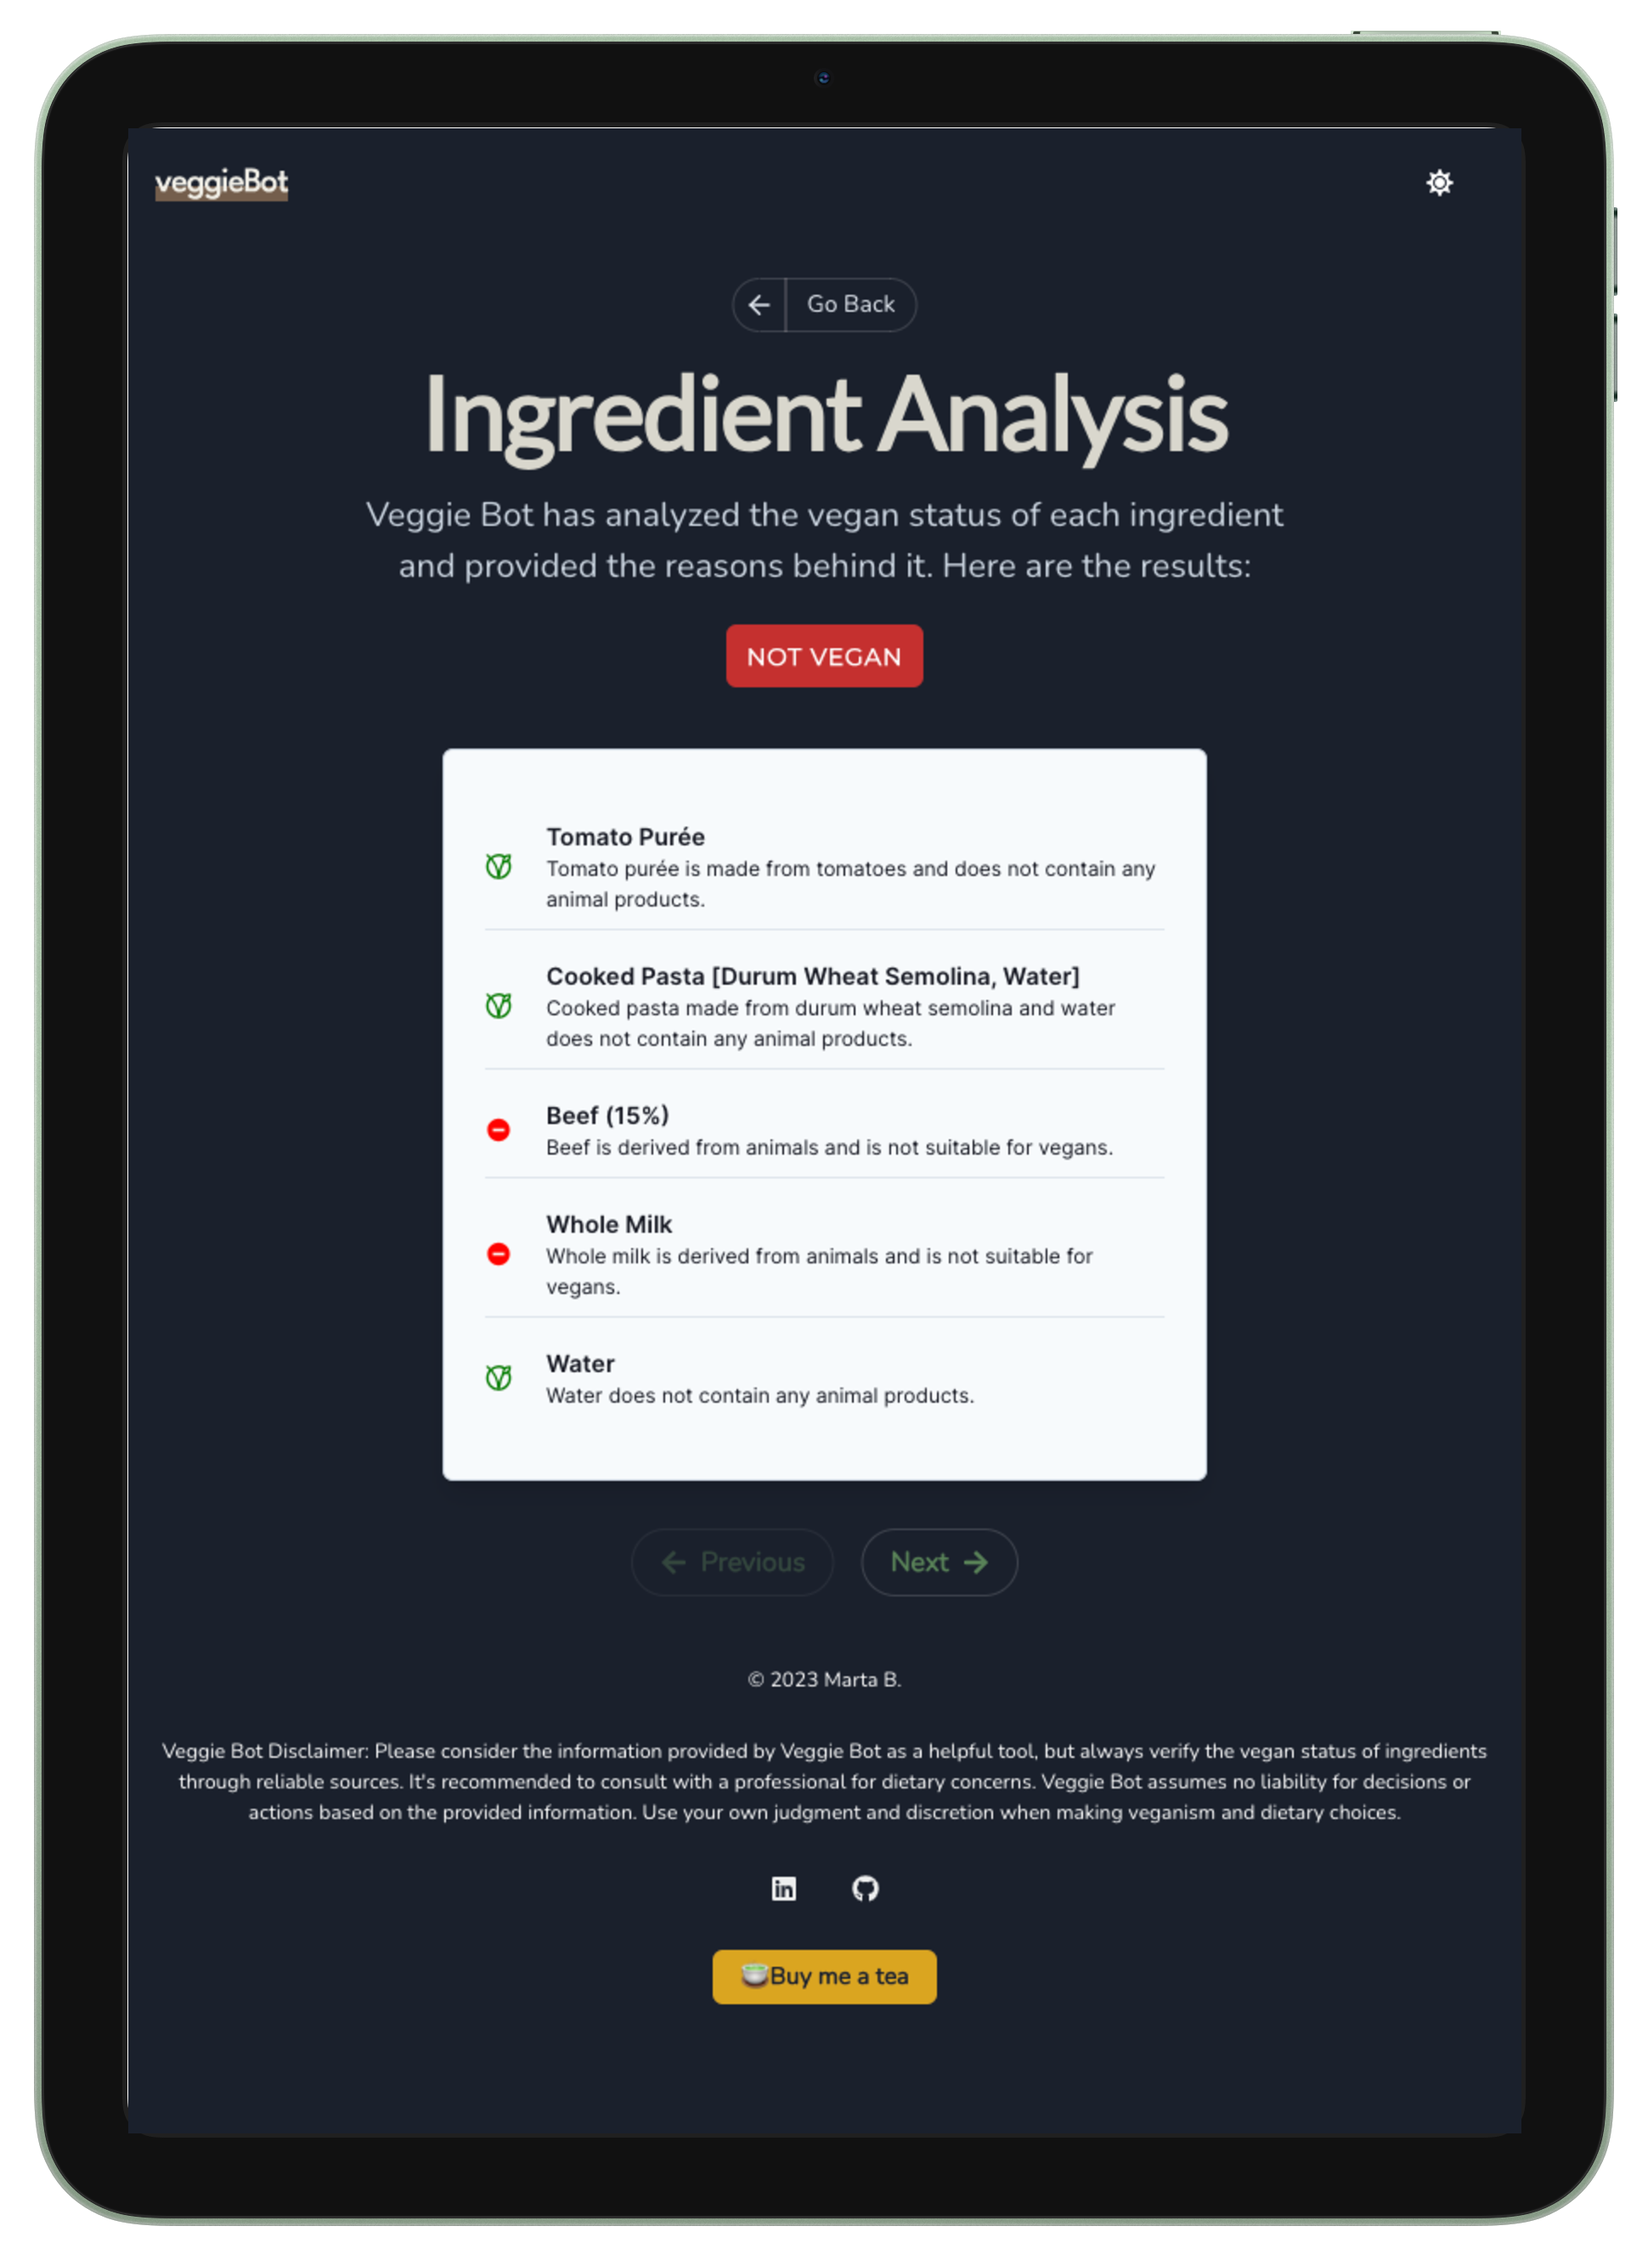
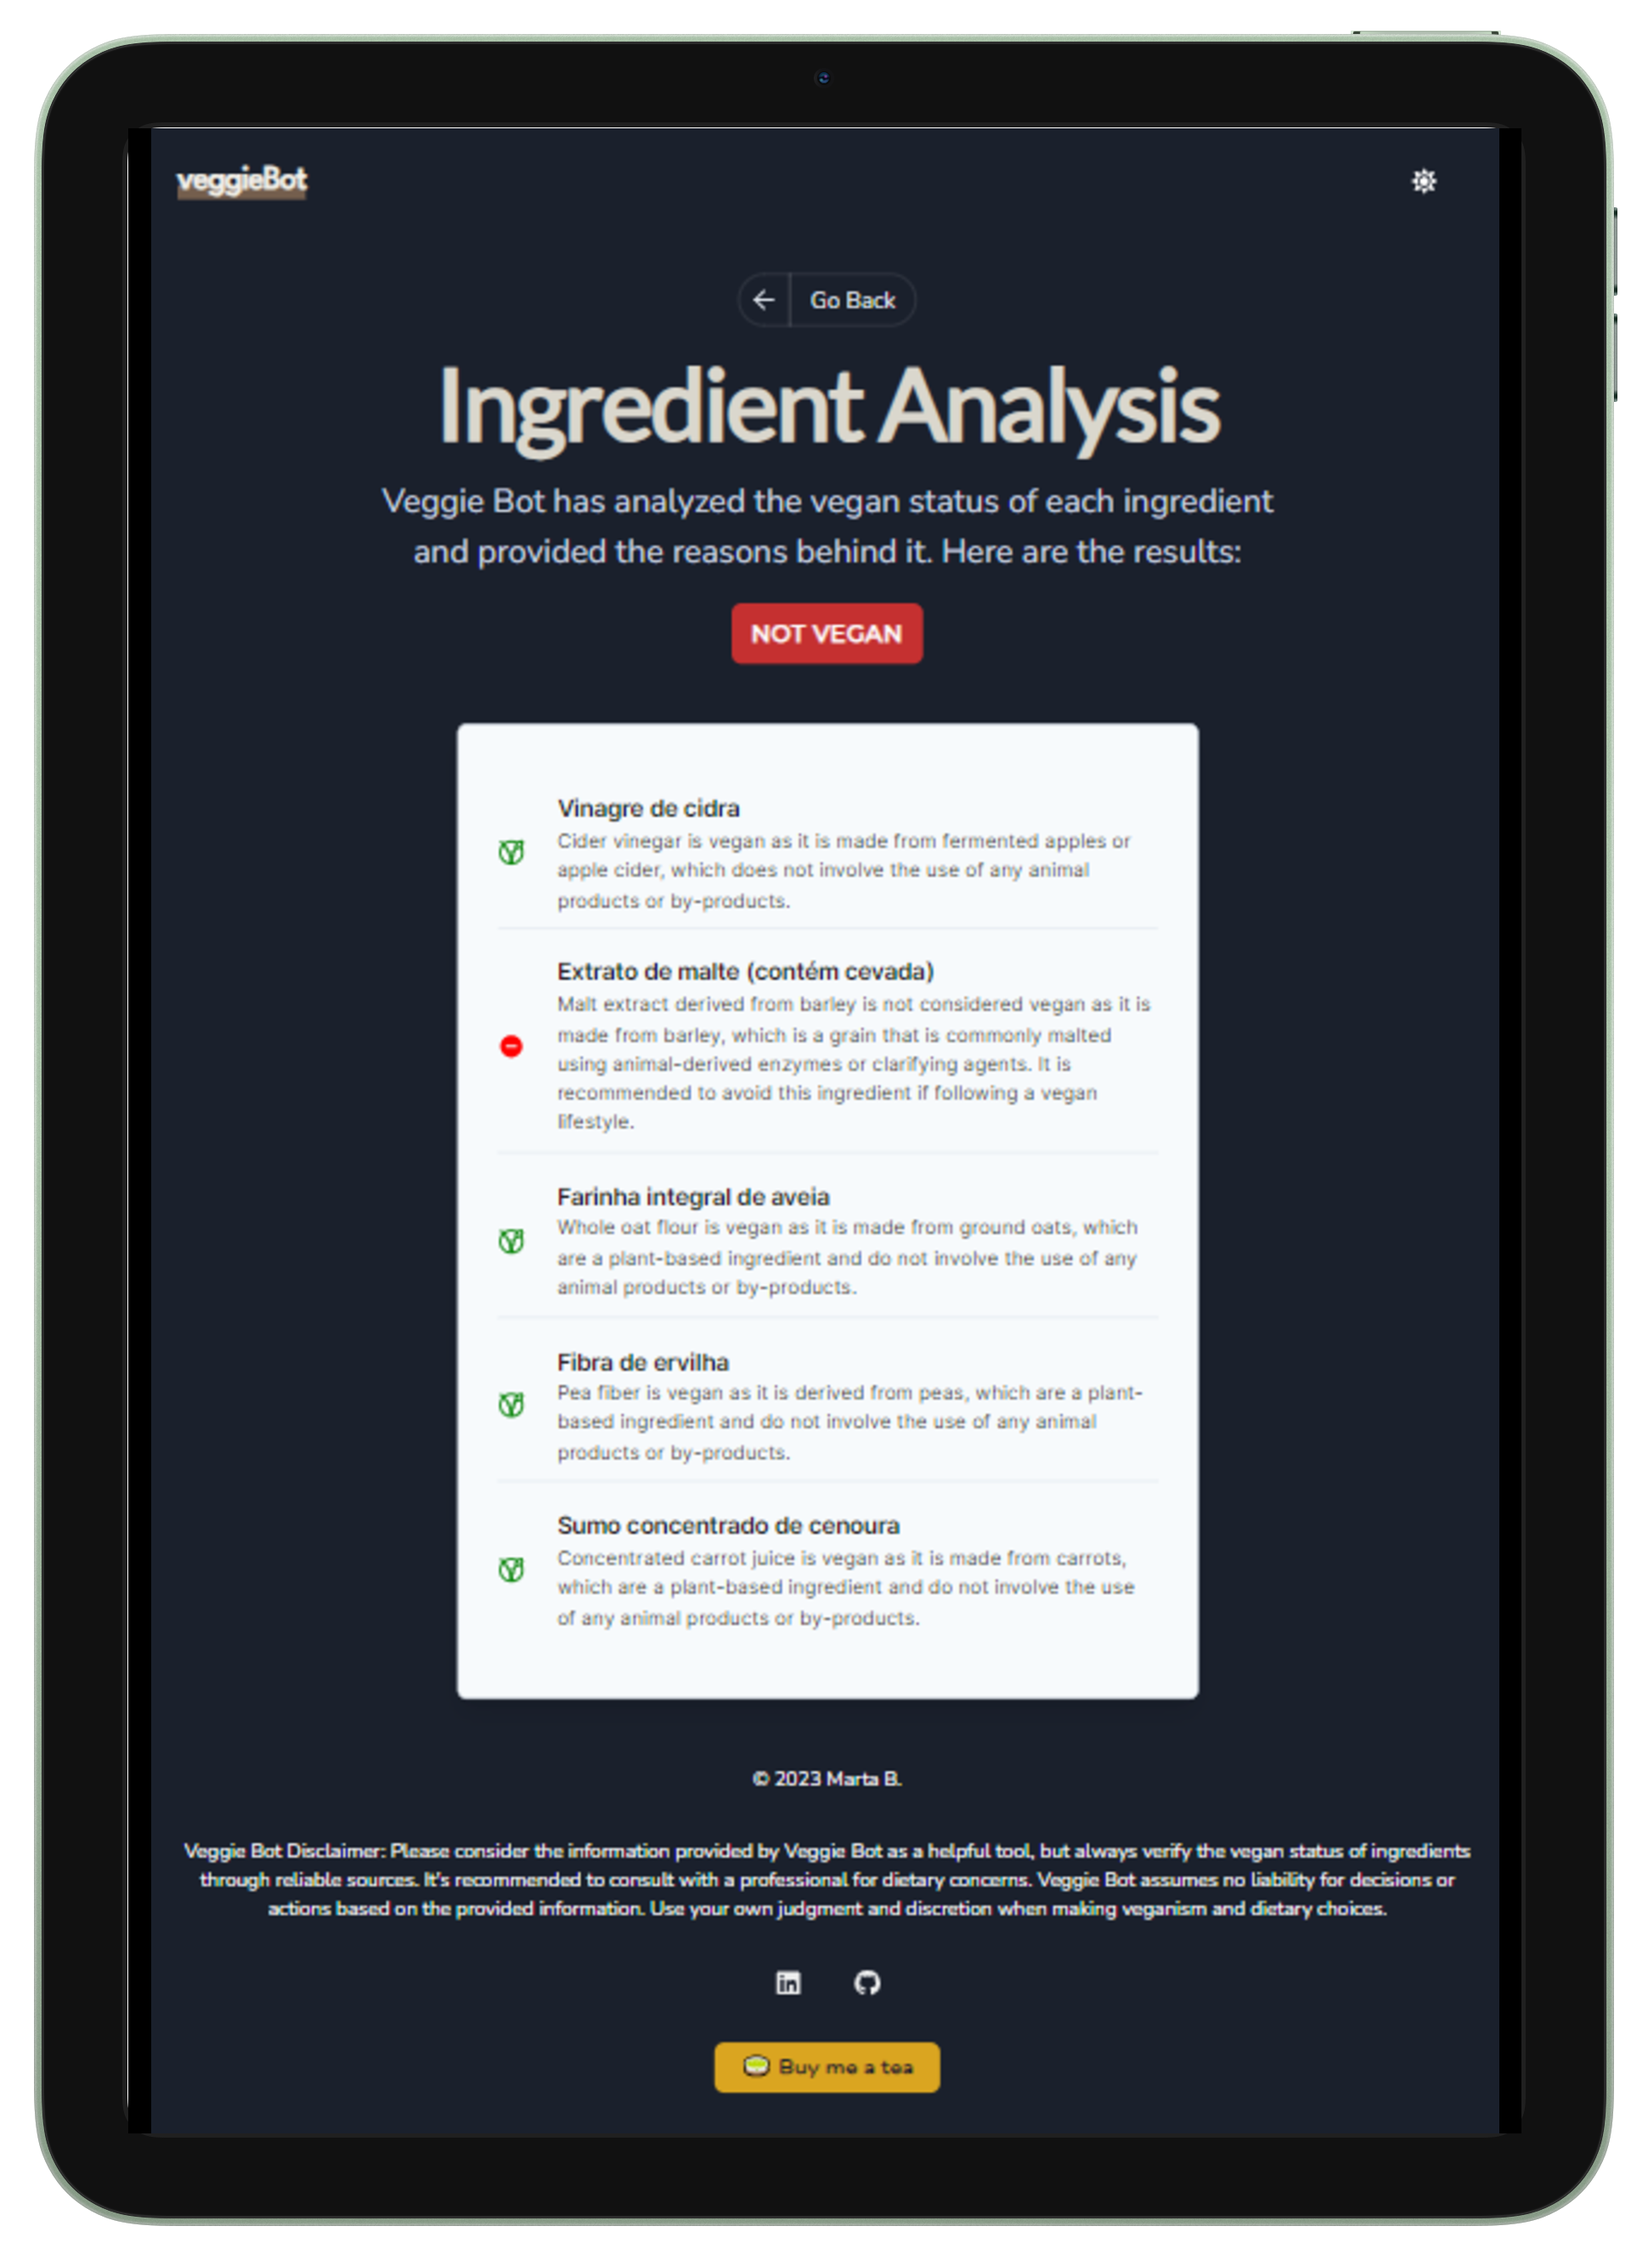
fix: improved the fetchData body & the app screenshots

Changed region(s): [[0.0619, 0.0624, 0.9278, 0.9673]]

diff --git a/utils/fetchDataOpenAI.ts b/utils/fetchDataOpenAI.ts
@@ -14,7 +14,7 @@ export async function fetchData(
       {
         role: "system",
         content:
-          "You are a vegan ingredient checker. Provide the vegan status of each ingredient separately in JSON format: [{ ingredient: ingredient name, vegan: true/false, reason: 'reason for being vegan or not, with a very detailed description' }]",
+          "You are a vegan ingredient checker. Always provide the information in English, no matter the language the user uses. Provide the vegan status of each ingredient separately in JSON format: [{ ingredient: ingredient name, vegan: true/false, reason: 'reason for being vegan or not, with a very detailed description' }]",
       },
       {
         role: "user",
